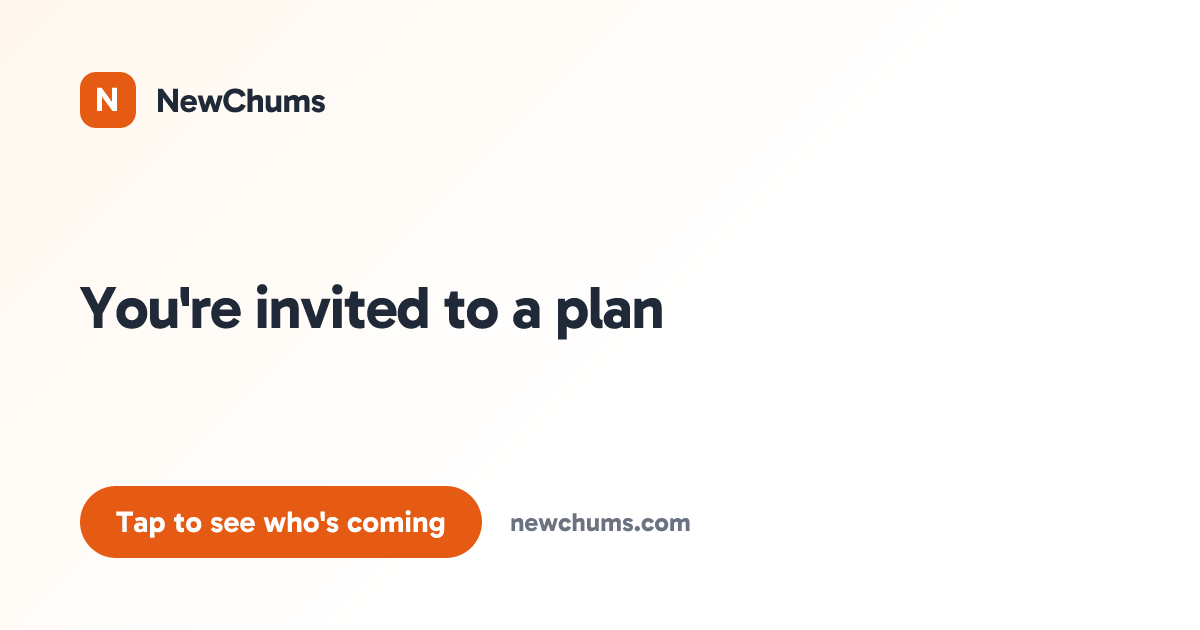
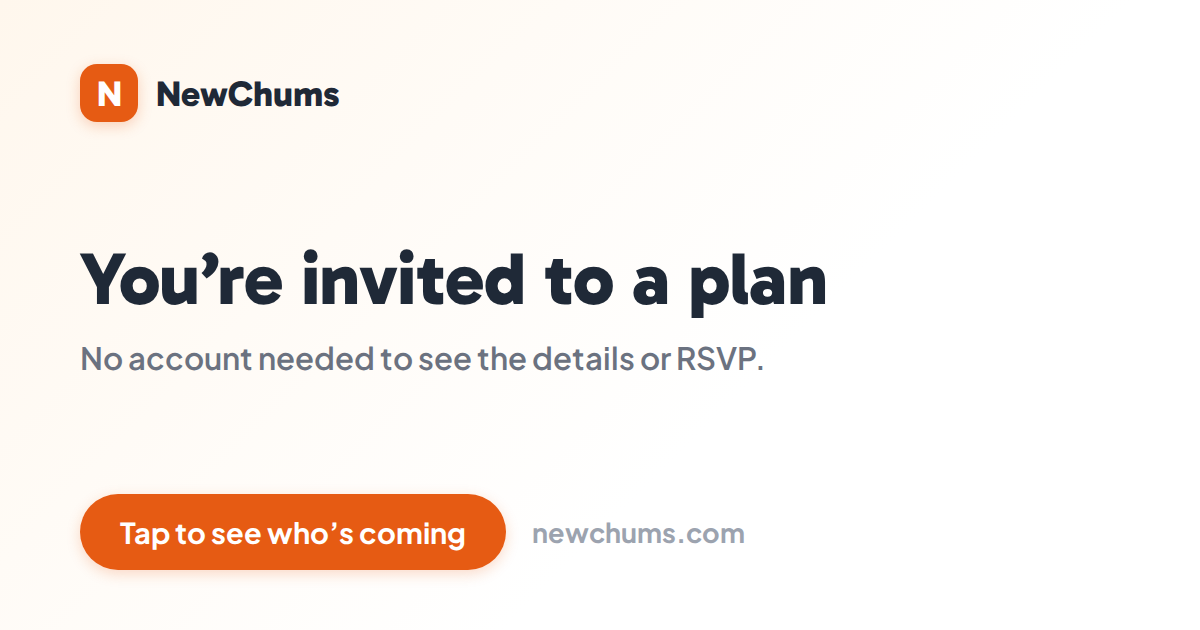
Share moment: one action, a fuller card, a friendlier close
The share dialog had two buttons doing the same job: Copy link and the
native share sheet. The sheet is gone and Copy link stands alone at
full width; the single most important tap on the page is no longer a
choice. (The share_sheet_opened analytics event stops firing; the spec
table row stays, annotated, for old GA data.)

The unfurl preview's og-plan-card.png was mostly empty: a thin headline
floating between two large blank bands. Regenerated with the same brand
pieces (tile, wordmark, pill, domain) but a much larger headline plus a
value subline, "No account needed to see the details or RSVP", so the
card fills its frame. Real chat unfurls get the same improvement, since
this is the live og:image, not just the preview.

The post-publish dismiss was "Go to the plan", which read flat given
you're already on the plan. It now says "Awesome!". The plan-page
variant keeps "Done".

On phones the theme renders every dialog as a full-screen sheet, and
this one auto-opens after publishing, so it has to look deliberate: the
content now centres itself in the spare height via auto margins rather
than sitting at the top of an empty sheet. Auto margins, not
justify-content, so a short landscape viewport still scrolls from the
top instead of clipping the heading.

Verified at 390x844, 320x568 and 844x390: single full-width copy
action, dialog fully in view on open, content centred in portrait,
scrollable-from-top in landscape, "Awesome!" present; the plan-page
[…]

Changed region(s): [[0.0617, 0.3921, 0.7092, 0.6032], [0.0617, 0.754, 0.6167, 0.9349], [0.0617, 0.0905, 0.2775, 0.2111]]

diff --git a/web/src/components/events/PlanShareMoment.tsx b/web/src/components/events/PlanShareMoment.tsx
@@ -9,7 +9,6 @@ import Stack from "@mui/material/Stack";
 import Typography from "@mui/material/Typography";
 import CheckRoundedIcon from "@mui/icons-material/CheckRounded";
 import ContentCopyRoundedIcon from "@mui/icons-material/ContentCopyRounded";
-import IosShareRoundedIcon from "@mui/icons-material/IosShareRounded";
 import { trackEvent } from "@/lib/analytics";
 
 /**
@@ -27,10 +26,11 @@ import { trackEvent } from "@/lib/analytics";
  *   - any time afterwards from the plan page's Share button
  *     (`surface="plan_page"`).
  *
- * It shows the link itself, a one-tap copy, the native share sheet where the
- * device has one (feature-detected, hidden elsewhere), and a preview of how
- * the link unfurls when pasted into a group chat, so the host knows what
- * their friends will actually see.
+ * It shows the link itself, one full-width copy action, and a preview of
+ * how the link unfurls when pasted into a group chat, so the host knows what
+ * their friends will actually see. There is deliberately no second button:
+ * the native share sheet used to sit beside Copy, and two ways to do the
+ * same thing made the single most important tap on the page a choice.
  */
 
 type PlanShareMomentProps = {
@@ -54,13 +54,6 @@ export default function PlanShareMoment({
   surface,
 }: PlanShareMomentProps) {
   const [copied, setCopied] = React.useState(false);
-  // navigator.share is absent on most desktop browsers and on http origins.
-  // Resolved after mount so the server and first client render agree.
-  const [canNativeShare, setCanNativeShare] = React.useState(false);
-
-  React.useEffect(() => {
-    setCanNativeShare(typeof navigator !== "undefined" && typeof navigator.share === "function");
-  }, []);
 
   // One event per opening, per surface.
   const shownRef = React.useRef(false);
@@ -98,19 +91,21 @@ export default function PlanShareMoment({
     }
   };
 
-  const nativeShare = async () => {
-    trackEvent("share_sheet_opened", { surface });
-    try {
-      await navigator.share({ title: planTitle, text: `Join me: ${planTitle}`, url });
-    } catch {
-      /* User dismissed the sheet, or the browser refused. Nothing to do. */
-    }
-  };
-
   return (
-    <Dialog open={open} onClose={onClose} fullWidth maxWidth="xs" PaperProps={{ sx: { borderRadius: 4 } }}>
-      <DialogContent sx={{ p: { xs: 2.5, sm: 3 } }}>
-        <Stack spacing={2.5}>
+    <Dialog
+      open={open}
+      onClose={onClose}
+      fullWidth
+      maxWidth="xs"
+      PaperProps={{ sx: { borderRadius: 4 } }}
+    >
+      {/* The theme turns every dialog into a full-screen sheet below sm.
+          This one auto-opens after publishing, so the sheet has to look
+          deliberate: the content centres itself in the spare height (auto
+          margins, not justify-content, so an overflowing short-landscape
+          screen still scrolls from the top instead of clipping). */}
+      <DialogContent sx={{ p: { xs: 2.5, sm: 3 }, display: "flex", flexDirection: "column" }}>
+        <Stack spacing={2} sx={{ my: "auto" }}>
           <Box>
             <Typography sx={{ fontWeight: 700, fontSize: "1.125rem", lineHeight: 1.3 }}>
               {surface === "post_publish" ? "Your plan is live. Share it." : "Share this plan"}
@@ -142,29 +137,15 @@ export default function PlanShareMoment({
             {url}
           </Box>
 
-          <Stack direction={{ xs: "column", sm: "row" }} spacing={1}>
-            <Button
-              onClick={copy}
-              variant="contained"
-              fullWidth
-              startIcon={copied ? <CheckRoundedIcon /> : <ContentCopyRoundedIcon />}
-              sx={{ textTransform: "none", fontWeight: 700, borderRadius: 2.5, boxShadow: "none", "&:hover": { boxShadow: "none" } }}
-            >
-              {copied ? "Copied" : "Copy link"}
-            </Button>
-            {canNativeShare && (
-              <Button
-                onClick={nativeShare}
-                variant="outlined"
-                fullWidth
-                color="inherit"
-                startIcon={<IosShareRoundedIcon />}
-                sx={{ textTransform: "none", fontWeight: 700, borderRadius: 2.5, borderColor: "divider" }}
-              >
-                Share
-              </Button>
-            )}
-          </Stack>
+          <Button
+            onClick={copy}
+            variant="contained"
+            fullWidth
+            startIcon={copied ? <CheckRoundedIcon /> : <ContentCopyRoundedIcon />}
+            sx={{ textTransform: "none", fontWeight: 700, borderRadius: 2.5, boxShadow: "none", "&:hover": { boxShadow: "none" } }}
+          >
+            {copied ? "Copied" : "Copy link"}
+          </Button>
 
           {/* Unfurl preview: mirrors the real share card (static
               /og-plan-card.png plus the og:title and og:description that
@@ -202,7 +183,7 @@ export default function PlanShareMoment({
             variant="text"
             sx={{ textTransform: "none", fontWeight: 600, color: "text.secondary", alignSelf: "center" }}
           >
-            {surface === "post_publish" ? "Go to the plan" : "Done"}
+            {surface === "post_publish" ? "Awesome!" : "Done"}
           </Button>
         </Stack>
       </DialogContent>
